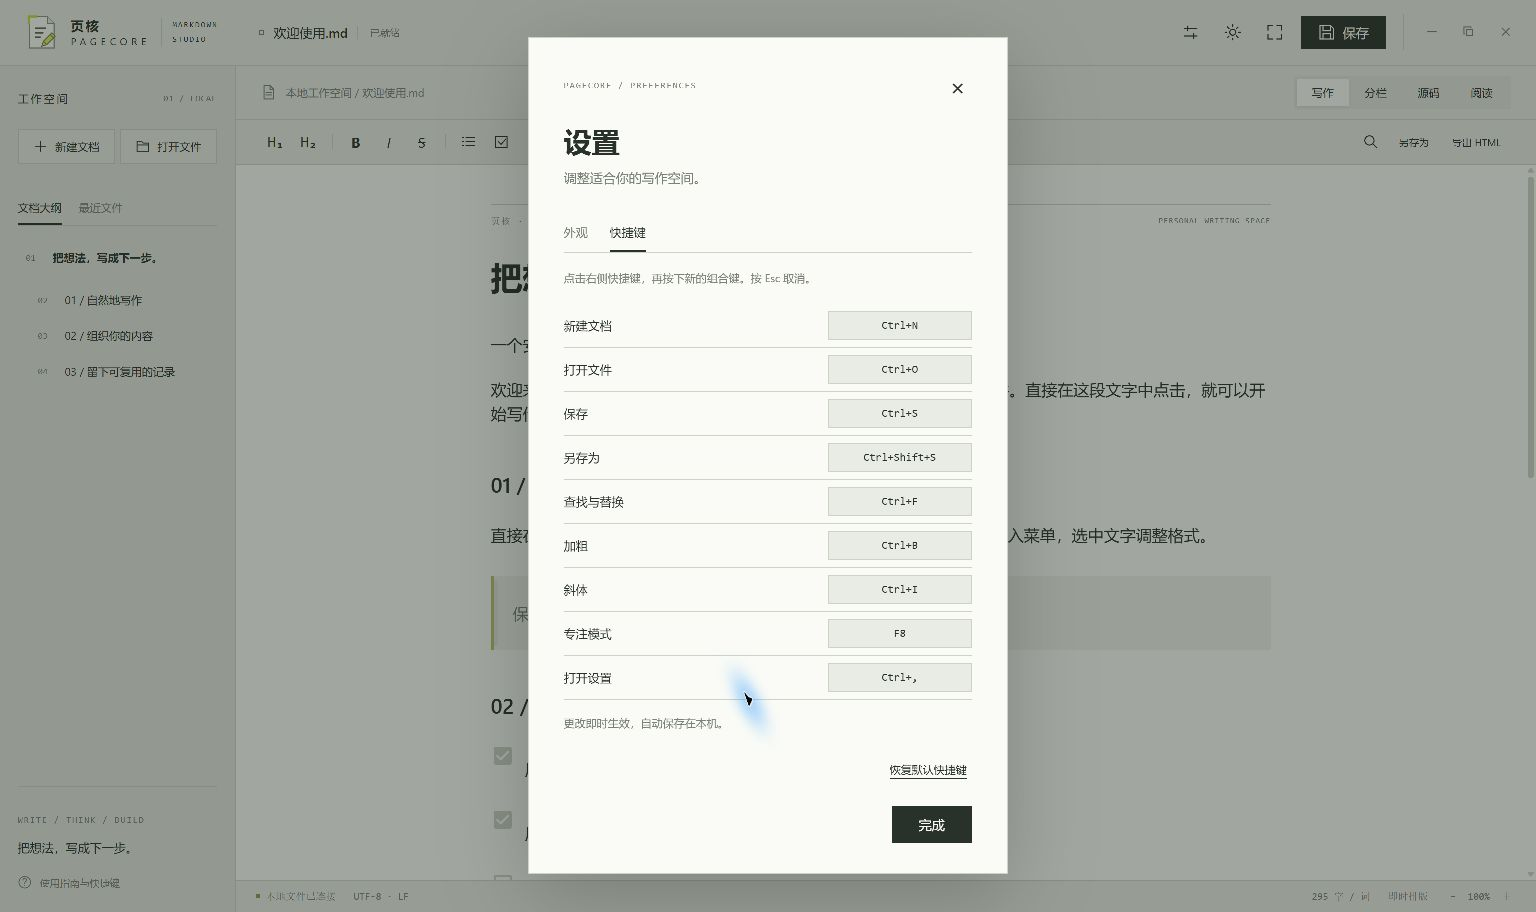
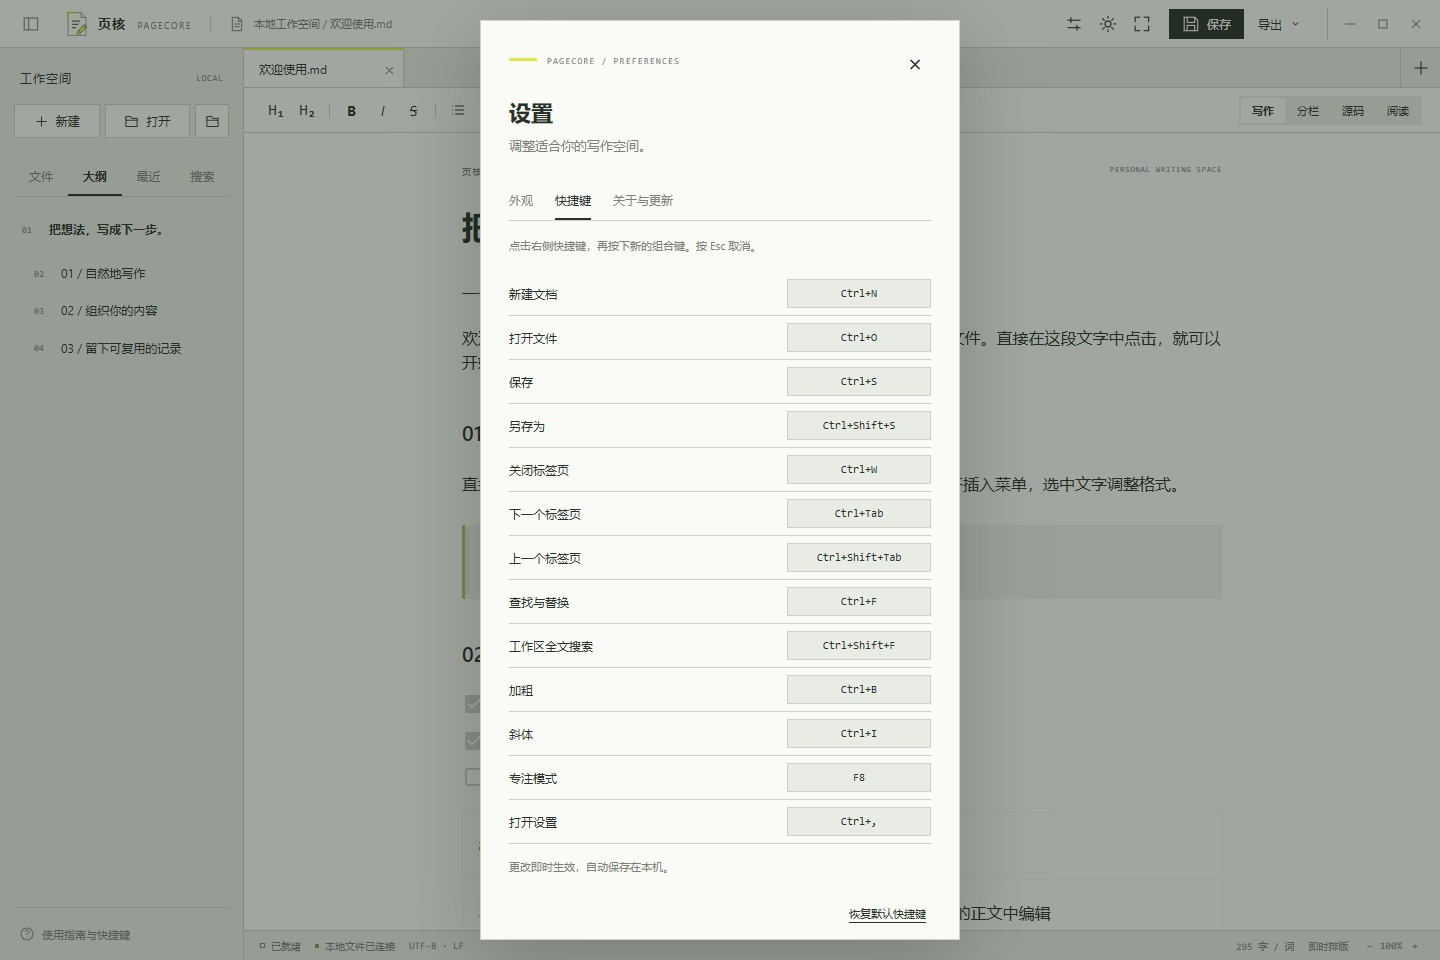
Refresh homepage screenshots for v1.0.0 without cursor overlays

diff --git a/README.md b/README.md
@@ -40,6 +40,12 @@
 
 ![快捷键设置](docs/images/shortcuts.jpg)
 
+### 关于与更新
+
+在“设置 → 关于与更新”查看版本、检查正式版更新，下载校验通过后可选择安装并重启。
+
+![关于与更新 · v1.0.0](docs/images/updates.jpg)
+
 ### 默认快捷键
 
 | 操作               | 快捷键                    |
